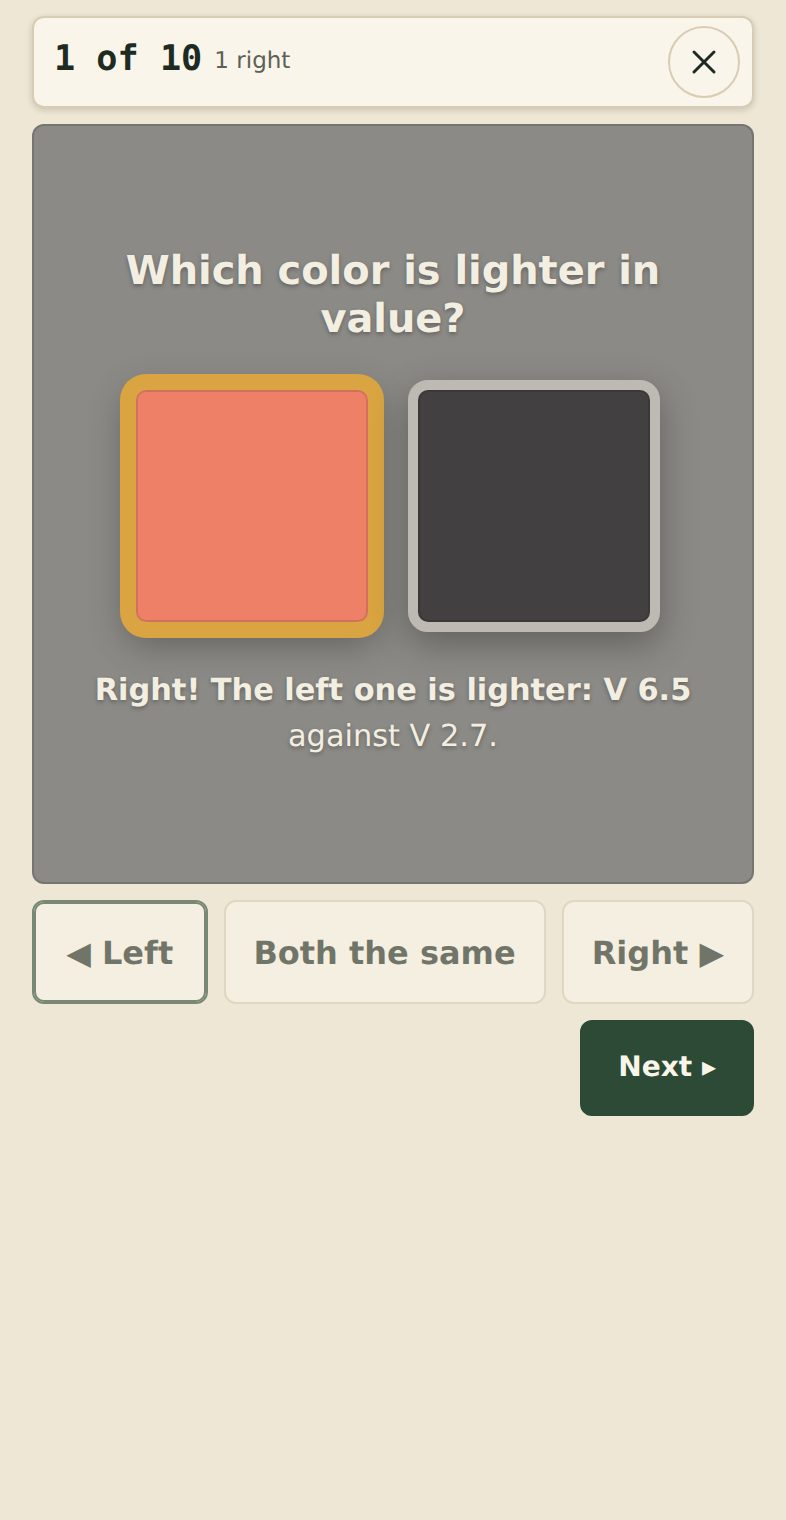
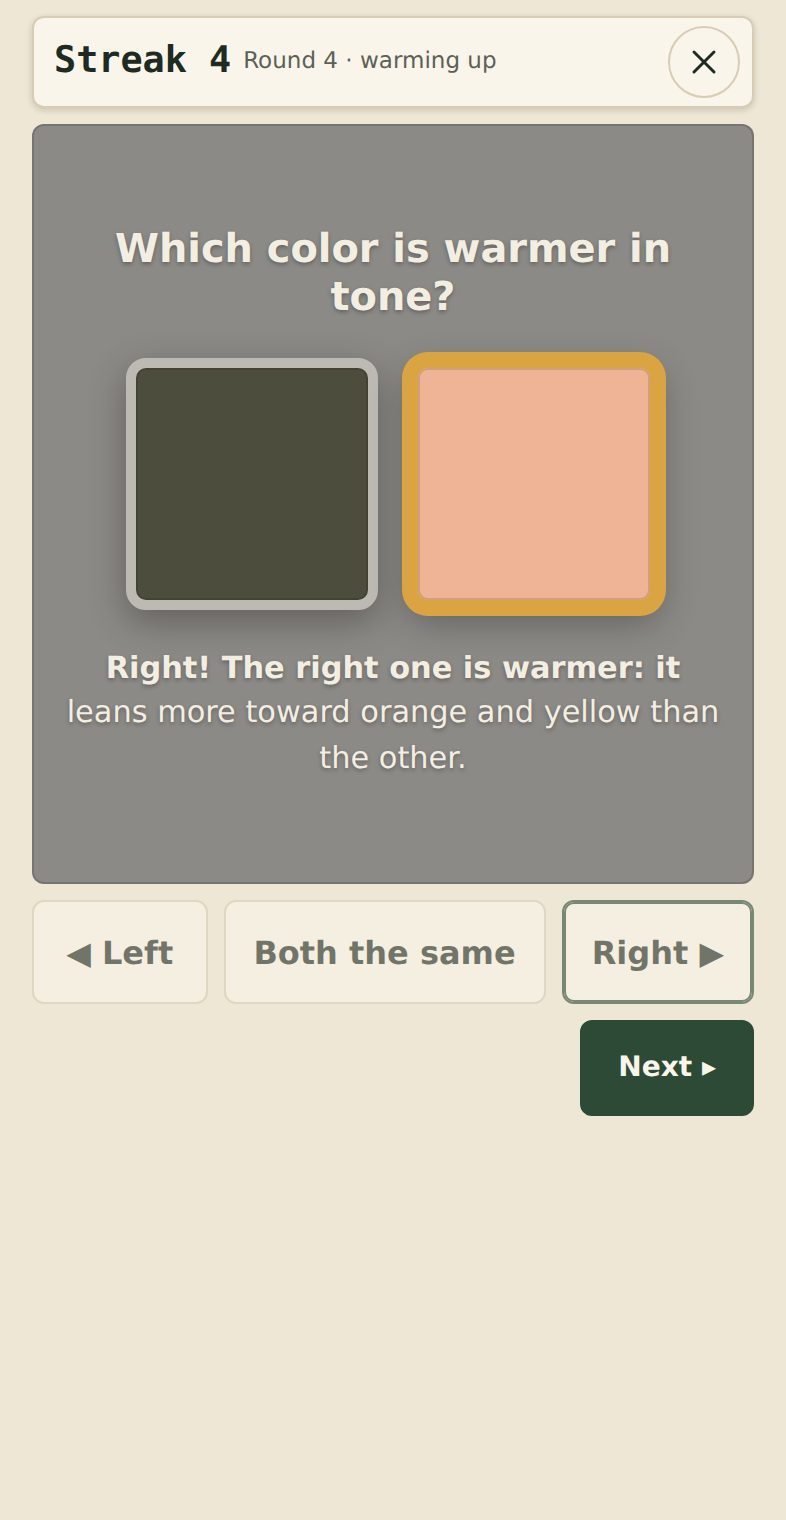
Value battle: a streak with rising difficulty instead of ten rounds
Rounds keep coming until the first miss, each a little harder than the
last: easy at the start, as hard as the old Hard level by round 24, and
closing in after that to a floor the eye can still tell apart. The bar
counts the streak with a flourish every five; the level choice goes; the
score popup shows the streak with stars by its length, and the best
streak per palette and color count is kept.

Claude-Session: https://claude.ai/code/session_01XVREo3r8Hxw4H8arPAzQN1

diff --git a/js/battle.js b/js/battle.js
@@ -3,8 +3,9 @@
  * gray board. With two, a question asks which is darker, lighter, cooler or warmer, and three
  * buttons answer: the left one, the right one, or both the same. With more, the question is
  * answered on the swatches: tap the darkest or the lightest, tap them in order from darkest to
- * lightest. Ten rounds make a game; the score pops up the way Paint by numbers
- * scores a portrait, and the best for each palette and difficulty is kept in the browser.
+ * lightest. The rounds keep coming, each a little harder than the last, until the first miss:
+ * the score is the streak. It pops up the way Paint by numbers scores a portrait, and the best
+ * streak for each palette and color count is kept in the browser.
  *
  * Value is lightness (L*), read on the 0-10 value scale the Study tab uses. Temperature is the hue:
  * a color leaning toward orange and yellow is warm, toward blue is cool, measured as how far the
@@ -18,11 +19,9 @@
   const root = document.getElementById('tab-battle');
   if (!root) return;
   const PALETTE_KEY = 'portrait-value-studio.battlePalette';
-  const LEVEL_KEY = 'portrait-value-studio.battleLevel';
   const COUNT_KEY = 'portrait-value-studio.battleCount';
   const BEST_KEY = 'portrait-value-studio.battleBest';
   const MINE_KEY = 'portrait-value-studio.myPaints';
-  const ROUNDS = 10;
   function load(key, fallback) { try { const v = JSON.parse(localStorage.getItem(key)); return v == null ? fallback : v; } catch (e) { return fallback; } }
   function save(key, v) { try { localStorage.setItem(key, JSON.stringify(v)); } catch (e) { /* private mode */ } }
 
@@ -81,18 +80,25 @@
     { key: 'order', ask: 'Tap the colors in order, from darkest to lightest.', kind: 'value', mode: 'order' },
   ];
   const PAIR_Q = QUESTIONS.filter((q) => q.mode === 'pair'), MANY_Q = QUESTIONS.filter((q) => q.mode !== 'pair');
-  // how far apart the colors are, by level: value in L*, temperature in warmth (0-2)
-  const LEVELS = {
-    easy: { name: 'Easy', value: [14, 40], temp: [0.6, 2], same: 0.15, gap: 12 },
-    medium: { name: 'Medium', value: [6, 14], temp: [0.3, 0.7], same: 0.25, gap: 7 },
-    hard: { name: 'Hard', value: [2.5, 6], temp: [0.12, 0.3], same: 0.3, gap: 3.5 },
-  };
+  // How far apart the colors are: value in L*, temperature in warmth (0-2), and the gap between
+  // neighbouring values in a three- or four-color round. The game starts easy and tightens a
+  // little every round: by round 24 it is as hard as the old Hard level, and it keeps closing in
+  // after that, down to a floor the eye can still tell apart.
+  const EASY = { value: [14, 40], temp: [0.6, 2], same: 0.15, gap: 12 };
+  const HARD = { value: [2.5, 6], temp: [0.12, 0.3], same: 0.3, gap: 3.5 };
+  const FLOOR = { value: [1.6, 4], temp: [0.08, 0.2], same: 0.3, gap: 2.2 };
+  const lerp = (a, b, t) => a + (b - a) * t;
+  function levelAt(round) {
+    const mix = (a, b, t) => ({ value: [lerp(a.value[0], b.value[0], t), lerp(a.value[1], b.value[1], t)], temp: [lerp(a.temp[0], b.temp[0], t), lerp(a.temp[1], b.temp[1], t)], same: lerp(a.same, b.same, t), gap: lerp(a.gap, b.gap, t) });
+    if (round <= 24) return mix(EASY, HARD, round / 24);
+    return mix(HARD, FLOOR, Math.min(1, (round - 24) / 24));
+  }
+  const LEVELS = { easy: EASY, medium: levelAt(12), hard: HARD };   // for tests and the README
   const SAME = { value: 0.9, temp: 0.05 };      // closer than this is "the same"
   const LETTERS = ['A', 'B', 'C', 'D'];
   function measure(kind, c) { return kind === 'value' ? c.L : c.warmth; }
   // a pair of colors for the question at the level, or a "same" pair when the dice say so
-  function makePair(pool, level, q) {
-    const lv = LEVELS[level];
+  function makePair(pool, lv, q) {
     const usable = q.kind === 'temp' ? pool.filter((c) => c.chroma >= 10) : pool;
     const wantSame = Math.random() < lv.same;
     const [lo, hi] = lv[q.kind];
@@ -118,8 +124,7 @@
   }
   // three or four colors for a swatch question: values at least a level's gap apart where the
   // question needs them told apart
-  function makeMany(pool, level, q, n) {
-    const lv = LEVELS[level];
+  function makeMany(pool, lv, q, n) {
     const byL = (list) => list.slice().sort((x, y) => x.L - y.L);
     let colors = null;
     for (let tries = 0; tries < 300 && !colors; tries++) {
@@ -140,7 +145,7 @@
     else answer = byL(colors).map((c) => colors.indexOf(c));
     return { q, n, colors, answer };
   }
-  function makeRound(pool, level, q, n) { return n === 2 ? makePair(pool, level, q) : makeMany(pool, level, q, n); }
+  function makeRound(pool, lv, q, n) { return n === 2 ? makePair(pool, lv, q) : makeMany(pool, lv, q, n); }
 
   // ---- The game ------------------------------------------------------------------------------------
   const els = {
@@ -150,43 +155,42 @@
     popup: $('popup'), kicker: $('kicker'), pct: $('pct'), stars: $('stars'), grade: $('grade'), newBest: $('newBest'), again: $('again'), settings: $('settings'),
   };
   let game = null, countUp = 0;
-  const level = () => (root.querySelector('input[name="vbLevel"]:checked') || {}).value || 'easy';
   const count = () => (root.querySelector('input[name="vbCount"]:checked') || {}).value || 'mix';
   const paletteNow = () => palettes().find((p) => p.id === els.palette.value) || palettes()[0];
-  const bestKey = () => `${paletteNow().id}:${level()}:${count()}`;
+  const bestKey = () => `${paletteNow().id}:${count()}`;
   function renderSetup() {
     const list = palettes(), was = els.palette.value || load(PALETTE_KEY, 'zorn');
     els.palette.innerHTML = '';
     list.forEach((p) => els.palette.append(new Option(p.name, p.id)));
     els.palette.value = list.some((p) => p.id === was) ? was : list[0].id;
-    const lv = load(LEVEL_KEY, 'easy'), ct = load(COUNT_KEY, 'mix');
-    root.querySelectorAll('input[name="vbLevel"]').forEach((r) => { r.checked = r.value === lv; });
+    const ct = load(COUNT_KEY, 'mix');
     root.querySelectorAll('input[name="vbCount"]').forEach((r) => { r.checked = r.value === ct; });
     showBest();
   }
   function showBest() {
     const best = load(BEST_KEY, {})[bestKey()];
-    els.best.textContent = best == null ? 'No score yet for these settings.' : `Your best here: ${best} of ${ROUNDS}.`;
+    els.best.textContent = best == null ? 'No streak yet for these settings.' : `Your best streak here: ${best} in a row.`;
   }
   els.palette.addEventListener('change', () => { save(PALETTE_KEY, els.palette.value); showBest(); });
-  root.querySelectorAll('input[name="vbLevel"]').forEach((r) => r.addEventListener('change', () => { save(LEVEL_KEY, level()); showBest(); }));
   root.querySelectorAll('input[name="vbCount"]').forEach((r) => r.addEventListener('change', () => { save(COUNT_KEY, count()); showBest(); }));
 
   function start() {
     const pal = paletteNow();
     const pool = mixPool(pal.codes, 220);
-    // ten rounds: the colors per round as set (or a mix), the questions dealt evenly and shuffled
-    const ct = count();
-    const rounds = [], dealt = { pair: 0, many: 0 };
-    for (let i = 0; i < ROUNDS; i++) {
-      const n = ct === 'mix' ? [2, 3, 4][i % 3] : +ct;
-      const qs = n === 2 ? PAIR_Q : MANY_Q, key = n === 2 ? 'pair' : 'many';
-      rounds.push({ n, q: qs[dealt[key]++ % qs.length] });
-    }
-    for (let i = rounds.length - 1; i > 0; i--) { const j = rnd(i + 1); [rounds[i], rounds[j]] = [rounds[j], rounds[i]]; }
-    game = { pool, level: level(), rounds: rounds.map((r) => makeRound(pool, level(), r.q, r.n)), i: 0, right: 0, answered: false, over: false, picked: [] };
+    game = { pool, count: count(), rounds: [], i: -1, streak: 0, answered: false, over: false, picked: [], dealt: { pair: 0, many: 0 }, bag: [] };
     els.setup.hidden = true; els.play.hidden = false; els.popup.hidden = true;
     setFocus(true);
+    nextRound();
+  }
+  // each round is dealt as it comes, a little harder than the last; the colors per round as set
+  // (or a mix, shuffled in threes), the questions dealt in turn
+  function nextRound() {
+    game.i++;
+    if (!game.bag.length) { game.bag = game.count === 'mix' ? [2, 3, 4].sort(() => Math.random() - 0.5) : [+game.count]; }
+    const n = game.bag.shift();
+    const qs = n === 2 ? PAIR_Q : MANY_Q, key = n === 2 ? 'pair' : 'many';
+    const q = qs[game.dealt[key]++ % qs.length];
+    game.rounds[game.i] = makeRound(game.pool, levelAt(game.i), q, n);
     showRound();
   }
   const css = (c) => `rgb(${c[0]},${c[1]},${c[2]})`;
@@ -195,8 +199,8 @@
   function showRound() {
     const r = game.rounds[game.i];
     game.answered = false; game.picked = [];
-    els.round.textContent = `${game.i + 1} of ${ROUNDS}`;
-    els.score.textContent = `${game.right} right`;
+    els.round.textContent = `Streak ${game.streak}`;
+    els.score.textContent = `Round ${game.i + 1} · ${game.i < 6 ? 'warming up' : game.i < 16 ? 'closing in' : game.i < 24 ? 'getting hard' : 'a hair apart'}`;
     els.question.textContent = r.q.ask;
     els.swatches.innerHTML = '';
     els.swatches.dataset.count = r.n;
@@ -266,10 +270,9 @@
   function choose(choice) {
     if (!game || game.answered || game.over) return;
     const r = game.rounds[game.i];
-    game.answered = true;
+    game.answered = true; game.lastChoice = choice;
     const right = same(choice, r.answer);
-    if (right) game.right++;
-    els.score.textContent = `${game.right} right`;
+    if (right) { game.streak++; els.round.textContent = `Streak ${game.streak}`; pulse(els.round); if (game.streak % 5 === 0) { els.round.classList.remove('is-milestone'); void els.round.offsetWidth; els.round.classList.add('is-milestone'); } }
     els.choices.querySelectorAll('.vb-choice').forEach((b) => { b.disabled = true; b.classList.toggle('is-chosen', b.dataset.choice === choice); });
     els.undo.disabled = true;
     // the right swatches ringed in gold, a wrong pick in red
@@ -286,13 +289,14 @@
     if (right) ding();
     if (navigator.vibrate && (!window.GameSound || GameSound.on())) navigator.vibrate(right ? [18, 40, 28] : 60);
     els.next.hidden = false;
-    els.next.textContent = game.i + 1 < ROUNDS ? 'Next ▸' : 'See the score';
+    els.next.textContent = right ? 'Next ▸' : 'See the score';
     els.next.focus({ preventScroll: true });
   }
   els.choices.querySelectorAll('.vb-choice').forEach((b) => b.addEventListener('click', () => { if (game && !game.answered) { pulse(b); click(b.dataset.choice === 'left' ? 0 : b.dataset.choice === 'same' ? 4 : 8); } choose(b.dataset.choice); }));
   els.next.addEventListener('click', () => {
     if (!game || !game.answered) return;
-    if (game.i + 1 < ROUNDS) { game.i++; showRound(); }
+    const r = game.rounds[game.i];
+    if (same(game.lastChoice, r.answer)) nextRound();
     else finish();
   });
   document.addEventListener('keydown', (e) => {
@@ -307,20 +311,20 @@
   });
 
   // ---- The score, the way Paint by numbers shows one ----------------------------------------------
-  const STARS = [100, 90, 70, 50, 30];
-  const GRADES = ['Keep looking', 'Keep looking', 'Getting there', 'Good eye', 'Sharp eye!', 'Perfect eye!'];
+  const STARS = [20, 12, 8, 5, 2];
+  const GRADES = ['Keep looking', 'Warming up', 'Getting there', 'Good eye', 'Sharp eye!', 'Eagle eye!'];
   const reduceMotion = window.matchMedia('(prefers-reduced-motion: reduce)');
   function finish() {
     game.over = true;
-    const pct = Math.round((game.right / ROUNDS) * 100);
+    const pct = game.streak;
     const stars = STARS.filter((min) => pct >= min).length;
     const bests = load(BEST_KEY, {}), key = bestKey();
-    const isBest = game.right > 0 && (bests[key] == null || game.right > bests[key]);
-    if (isBest) { bests[key] = game.right; save(BEST_KEY, bests); }
-    els.kicker.textContent = `${game.right} of ${ROUNDS} right`;
+    const isBest = game.streak > 0 && (bests[key] == null || game.streak > bests[key]);
+    if (isBest) { bests[key] = game.streak; save(BEST_KEY, bests); }
+    els.kicker.textContent = game.streak ? `Streak over after round ${game.i + 1}` : 'Out on the first round';
     els.grade.textContent = GRADES[stars];
     els.newBest.hidden = !isBest;
-    els.stars.setAttribute('aria-label', `${stars} out of 5 stars, ${pct}% right`);
+    els.stars.setAttribute('aria-label', `${stars} out of 5 stars, ${game.streak} in a row`);
     els.stars.querySelectorAll('.game-star').forEach((st, i) => { st.classList.toggle('is-on', i < stars); st.style.setProperty('--i', i); });
     els.popup.hidden = false;
     els.popup.classList.remove('is-shown'); void els.popup.offsetWidth; els.popup.classList.add('is-shown');
@@ -355,5 +359,5 @@
     if (on && !game) renderSetup();
   });
   if (Studio.tab() === 'battle') renderSetup();
-  window.ValueBattle = { makeRound, mixPool, LEVELS, QUESTIONS, LETTERS, state: () => game };
+  window.ValueBattle = { makeRound, mixPool, LEVELS, levelAt, QUESTIONS, LETTERS, state: () => game };
 })();

diff --git a/index.html b/index.html
@@ -771,7 +771,7 @@
         <div class="game-setup" id="vb-setup">
           <div class="game-card">
             <h2 class="game-title">Value battle</h2>
-            <p class="game-lede">Colors mixed from the same palette. Which is darker, lighter, cooler or warmer? With three or four, find the darkest, the lightest, or put them all in order. Ten rounds. Trust your eye.</p>
+            <p class="game-lede">Colors mixed from the same palette. Which is darker, lighter, cooler or warmer? With three or four, find the darkest, the lightest, or put them all in order. Every round is a little harder than the last. How long can your streak go?</p>
             <div class="field">
               <label for="vb-palette">Palette</label>
               <select id="vb-palette"></select>
@@ -787,14 +787,6 @@
               </div>
               <p class="hint">Two colors: left, right or the same. Three or four: tap the darkest or the lightest, or tap them in order.</p>
             </fieldset>
-            <fieldset class="field">
-              <legend>Level</legend>
-              <div class="seg seg-full game-levels" role="radiogroup" aria-label="Level">
-                <input type="radio" name="vbLevel" id="vbEasy" value="easy" checked><label for="vbEasy">Easy<small>big differences</small></label>
-                <input type="radio" name="vbLevel" id="vbMedium" value="medium"><label for="vbMedium">Medium<small>closer</small></label>
-                <input type="radio" name="vbLevel" id="vbHard" value="hard"><label for="vbHard">Hard<small>a hair apart</small></label>
-              </div>
-            </fieldset>
             <p class="game-best" id="vb-best"></p>
             <button type="button" class="btn btn-primary game-start" id="vb-start">Start the battle</button>
           </div>
@@ -803,11 +795,12 @@
             <p class="hint"><strong>Value</strong> is how light or dark a color is, with the color ignored. Squint and the darker one goes darker first.</p>
             <p class="hint"><strong>Temperature</strong> is which way a color leans: toward orange and yellow is warm, toward blue is cool. A gray-green can be cooler than a pink that is just as dark.</p>
             <p class="hint">Some rounds are a tie. "Both the same" is a real answer, not a trick.</p>
+            <p class="hint">The first rounds are easy. Each one after is a little closer, until the colors are a hair apart. One miss ends the streak.</p>
           </div>
         </div>
         <div class="vb-play" id="vb-play" hidden>
           <div class="game-bar vb-bar" id="vb-bar">
-            <span class="vb-round" id="vb-round">1 of 10</span>
+            <span class="vb-round" id="vb-round">Streak 0</span>
             <p class="game-progress" id="vb-score">0 right</p>
             <button type="button" class="game-icon-btn" id="vb-quit" aria-label="Quit this battle" title="Quit"><svg viewBox="0 0 24 24" aria-hidden="true"><path d="M6 6l12 12M18 6 6 18"/></svg></button>
           </div>
@@ -816,9 +809,9 @@
             <div class="vb-swatches" id="vb-swatches" data-count="2"></div>
             <p class="vb-answer" id="vb-answer" aria-live="polite"></p>
             <div class="game-popup" id="vb-popup" role="group" aria-labelledby="vb-kicker" hidden>
-              <p class="game-kicker" id="vb-kicker">Battle over</p>
-              <p class="game-pct"><span id="vb-pct">0</span><span class="game-pct-sign">%</span></p>
-              <p class="game-pct-label">right</p>
+              <p class="game-kicker" id="vb-kicker">Streak over</p>
+              <p class="game-pct"><span id="vb-pct">0</span></p>
+              <p class="game-pct-label">in a row</p>
               <div class="game-stars" id="vb-stars" role="img" aria-label=""><span class="game-star"><svg class="star-empty" viewBox="0 0 24 24" aria-hidden="true"><path d="M12 2.6l2.9 6 6.6.9-4.8 4.6 1.2 6.5L12 17.5l-5.9 3.1 1.2-6.5L2.5 9.5l6.6-.9z"/></svg><svg class="star-full" viewBox="0 0 24 24" aria-hidden="true"><path d="M12 2.6l2.9 6 6.6.9-4.8 4.6 1.2 6.5L12 17.5l-5.9 3.1 1.2-6.5L2.5 9.5l6.6-.9z"/></svg></span><span class="game-star"><svg class="star-empty" viewBox="0 0 24 24" aria-hidden="true"><path d="M12 2.6l2.9 6 6.6.9-4.8 4.6 1.2 6.5L12 17.5l-5.9 3.1 1.2-6.5L2.5 9.5l6.6-.9z"/></svg><svg class="star-full" viewBox="0 0 24 24" aria-hidden="true"><path d="M12 2.6l2.9 6 6.6.9-4.8 4.6 1.2 6.5L12 17.5l-5.9 3.1 1.2-6.5L2.5 9.5l6.6-.9z"/></svg></span><span class="game-star"><svg class="star-empty" viewBox="0 0 24 24" aria-hidden="true"><path d="M12 2.6l2.9 6 6.6.9-4.8 4.6 1.2 6.5L12 17.5l-5.9 3.1 1.2-6.5L2.5 9.5l6.6-.9z"/></svg><svg class="star-full" viewBox="0 0 24 24" aria-hidden="true"><path d="M12 2.6l2.9 6 6.6.9-4.8 4.6 1.2 6.5L12 17.5l-5.9 3.1 1.2-6.5L2.5 9.5l6.6-.9z"/></svg></span><span class="game-star"><svg class="star-empty" viewBox="0 0 24 24" aria-hidden="true"><path d="M12 2.6l2.9 6 6.6.9-4.8 4.6 1.2 6.5L12 17.5l-5.9 3.1 1.2-6.5L2.5 9.5l6.6-.9z"/></svg><svg class="star-full" viewBox="0 0 24 24" aria-hidden="true"><path d="M12 2.6l2.9 6 6.6.9-4.8 4.6 1.2 6.5L12 17.5l-5.9 3.1 1.2-6.5L2.5 9.5l6.6-.9z"/></svg></span><span class="game-star"><svg class="star-empty" viewBox="0 0 24 24" aria-hidden="true"><path d="M12 2.6l2.9 6 6.6.9-4.8 4.6 1.2 6.5L12 17.5l-5.9 3.1 1.2-6.5L2.5 9.5l6.6-.9z"/></svg><svg class="star-full" viewBox="0 0 24 24" aria-hidden="true"><path d="M12 2.6l2.9 6 6.6.9-4.8 4.6 1.2 6.5L12 17.5l-5.9 3.1 1.2-6.5L2.5 9.5l6.6-.9z"/></svg></span></div>
               <p class="game-grade" id="vb-grade"></p>
               <p class="game-newbest" id="vb-newBest" hidden>New best!</p>
@@ -990,11 +983,11 @@
           <div class="help-text">
             <h3>Value battle</h3>
             <ol>
-              <li>Pick a <strong>palette</strong> and a <strong>level</strong>, then <strong>Start the battle</strong>. Both colors in every round are mixed from that palette.</li>
+              <li>Pick a <strong>palette</strong> and how many <strong>colors</strong> a round has, then <strong>Start the battle</strong>. Every color is mixed from that palette.</li>
               <li>With two colors, a question asks which is <strong>darker</strong>, <strong>lighter</strong>, <strong>cooler</strong> or <strong>warmer</strong>. Tap <strong>Left</strong>, <strong>Right</strong> or <strong>Both the same</strong>, or tap a swatch.</li>
               <li>With three or four, answer on the swatches: tap the <strong>darkest</strong> or the <strong>lightest</strong>, or tap them <strong>in order</strong> from darkest to lightest. Choose how many colors on the setup, or Mix for all three.</li>
               <li>The answer explains itself: the values on the 0 to 10 scale, or which way each color leans. Then <strong>Next</strong>.</li>
-              <li>After ten rounds the score pops up with stars, and your best for that palette and level is kept.</li>
+              <li>The rounds keep coming, each a little harder, and your <strong>streak</strong> counts up in the bar. One miss ends it: the streak pops up with stars, and your best for that palette and color count is kept.</li>
             </ol>
           </div>
           <div class="help-shots">

diff --git a/styles.css b/styles.css
@@ -1525,7 +1525,11 @@ output { font: 500 0.8rem var(--mono); color: var(--muted); font-variant-numeric
 .vb-play { display: grid; gap: 12px; max-width: 760px; margin-inline: auto; }
 .vb-bar { position: static; grid-area: auto; }
 .vb-bar .game-progress { grid-area: auto; }
-.vb-round { font: 600 1.1rem/1 var(--mono); font-variant-numeric: tabular-nums; }
+.vb-round { font: 700 1.15rem/1 var(--mono); font-variant-numeric: tabular-nums; }
+.vb-round.is-pulse { animation: vb-pulse-btn 0.3s ease-out; display: inline-block; }
+.vb-round.is-milestone { animation: vb-milestone 0.9s ease-out; display: inline-block; color: var(--earth); }
+@keyframes vb-milestone { 0% { transform: scale(1); } 30% { transform: scale(1.35); } 60% { transform: scale(0.95); } 100% { transform: scale(1); } }
+@media (prefers-reduced-motion: reduce) { .vb-round.is-pulse, .vb-round.is-milestone { animation: none; } }
 .vb-board { position: relative; display: grid; gap: 18px; justify-items: center; align-content: center; min-height: min(62vh, 520px); padding: 22px 16px; background: #8c8a86; border-radius: var(--r); box-shadow: inset 0 0 0 1px rgba(0, 0, 0, 0.15); }
 .vb-question { margin: 0; font: 700 clamp(1.15rem, 1rem + 1vw, 1.5rem)/1.2 var(--display); color: #f3eee2; text-align: center; text-shadow: 0 1px 2px rgba(0, 0, 0, 0.3); }
 .vb-swatches { display: grid; gap: clamp(14px, 4vw, 36px); justify-content: center; grid-template-columns: repeat(2, auto); }

diff --git a/README.md b/README.md
@@ -104,7 +104,7 @@ The score is out of 1,200. Color accuracy gives up to 1,000: each number scores 
 
 ### Value battle
 
-The second game, under Games, trains the eye. Two, three or four colors mixed from the chosen palette (two or three of its paints with some white, in random parts) sit as squares with gray borders on a primer-gray board. With two, a question asks which is darker in value, lighter in value, cooler in tone or warmer in tone, and three buttons answer: Left, Both the same, or Right (tapping a swatch works too, as do the arrow keys). With three or four, the swatches are lettered and the question is answered on them: tap the color with the darkest value, tap the lightest, or tap them in order from darkest to lightest (each tap numbers a swatch; Start the round over clears them). The setup chooses two, three, four or a mix. Ten rounds make a game, the questions dealt evenly. A three- or four-color round is dealt so it can be told apart: neighbouring values at least a level's gap apart where the question needs it (12, 7 or 3.5 L* by level). Value is lightness (L*), shown on the Study tab's 0 to 10 value scale; temperature is the hue, measured as how far it sits from the warmest hue (orange), so a color leaning toward orange and yellow is warm and one leaning toward blue is cool, and colors too gray to have a temperature never get a temperature question. The level sets how far apart the two colors are: Easy at least 14 L* or clearly different in temperature, Medium 6 to 14, Hard 2.5 to 6 or a few degrees of hue. Some rounds are a tie, paired so the colors really are the same in what is asked (equal value but different colors, or the same lean but different values), and Both the same is the right answer. Every tap pulses the swatch or button and clicks like a key on the Paint by numbers palette, a right answer gets that game's chime, and the game's sound switch covers both. After each answer a line explains it with the values or the leans. The score pops up as in Paint by numbers, with stars (five at 10 of 10, four at 9, three at 7, two at 5, one at 3) and the best for each palette and level kept in the browser.
+The second game, under Games, trains the eye. Two, three or four colors mixed from the chosen palette (two or three of its paints with some white, in random parts) sit as squares with gray borders on a primer-gray board. With two, a question asks which is darker in value, lighter in value, cooler in tone or warmer in tone, and three buttons answer: Left, Both the same, or Right (tapping a swatch works too, as do the arrow keys). With three or four, the swatches are lettered and the question is answered on them: tap the color with the darkest value, tap the lightest, or tap them in order from darkest to lightest (each tap numbers a swatch; Start the round over clears them). The setup chooses two, three, four or a mix. The rounds keep coming, each a little harder than the last, until the first miss: the score is the streak, counted up in the bar with a flourish every five. Value is lightness (L*), shown on the Study tab's 0 to 10 value scale; temperature is the hue, measured as how far it sits from the warmest hue (orange), so a color leaning toward orange and yellow is warm and one leaning toward blue is cool, and colors too gray to have a temperature never get a temperature question. How far apart the colors are follows the round: the first round is easy (at least 14 L* apart in value, or clearly different in temperature, with 12 L* between neighbours in a three- or four-color round), by round 24 it is a hair apart (2.5 to 6 L*, a few degrees of hue, 3.5 L* between neighbours), and it keeps closing in after that, down to a floor the eye can still tell apart. Some rounds are a tie, paired so the colors really are the same in what is asked (equal value but different colors, or the same lean but different values), and Both the same is the right answer. Every tap pulses the swatch or button and clicks like a key on the Paint by numbers palette, a right answer gets that game's chime, and the game's sound switch covers both. After each answer a line explains it with the values or the leans. When the streak ends the score pops up as in Paint by numbers, with stars by the streak (five at 20, four at 12, three at 8, two at 5, one at 2) and the best streak for each palette and color count kept in the browser.
 
 ### How close did I get? (Check my painting)
 
